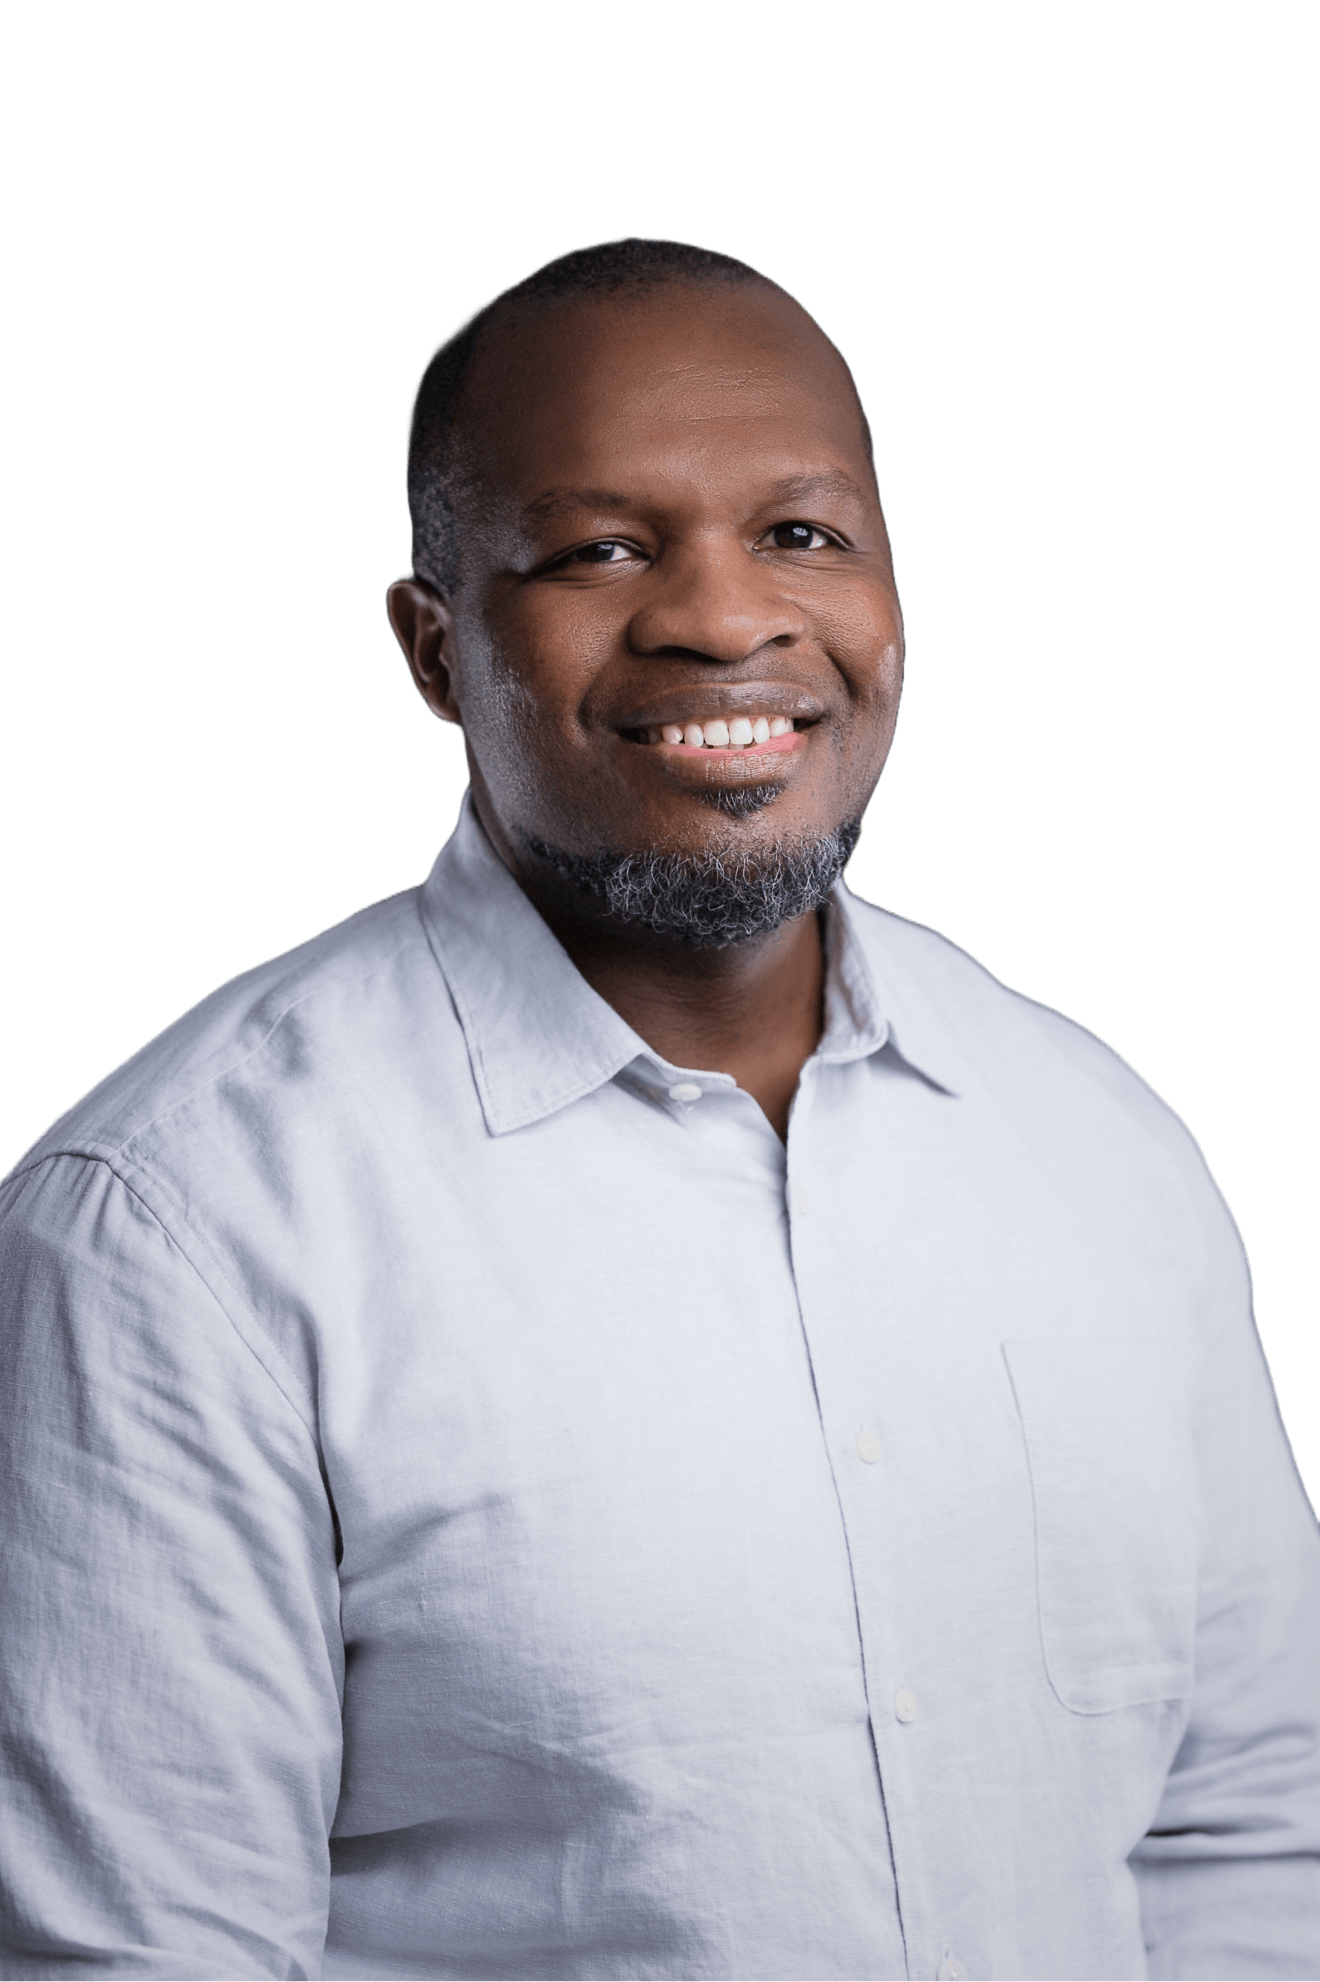
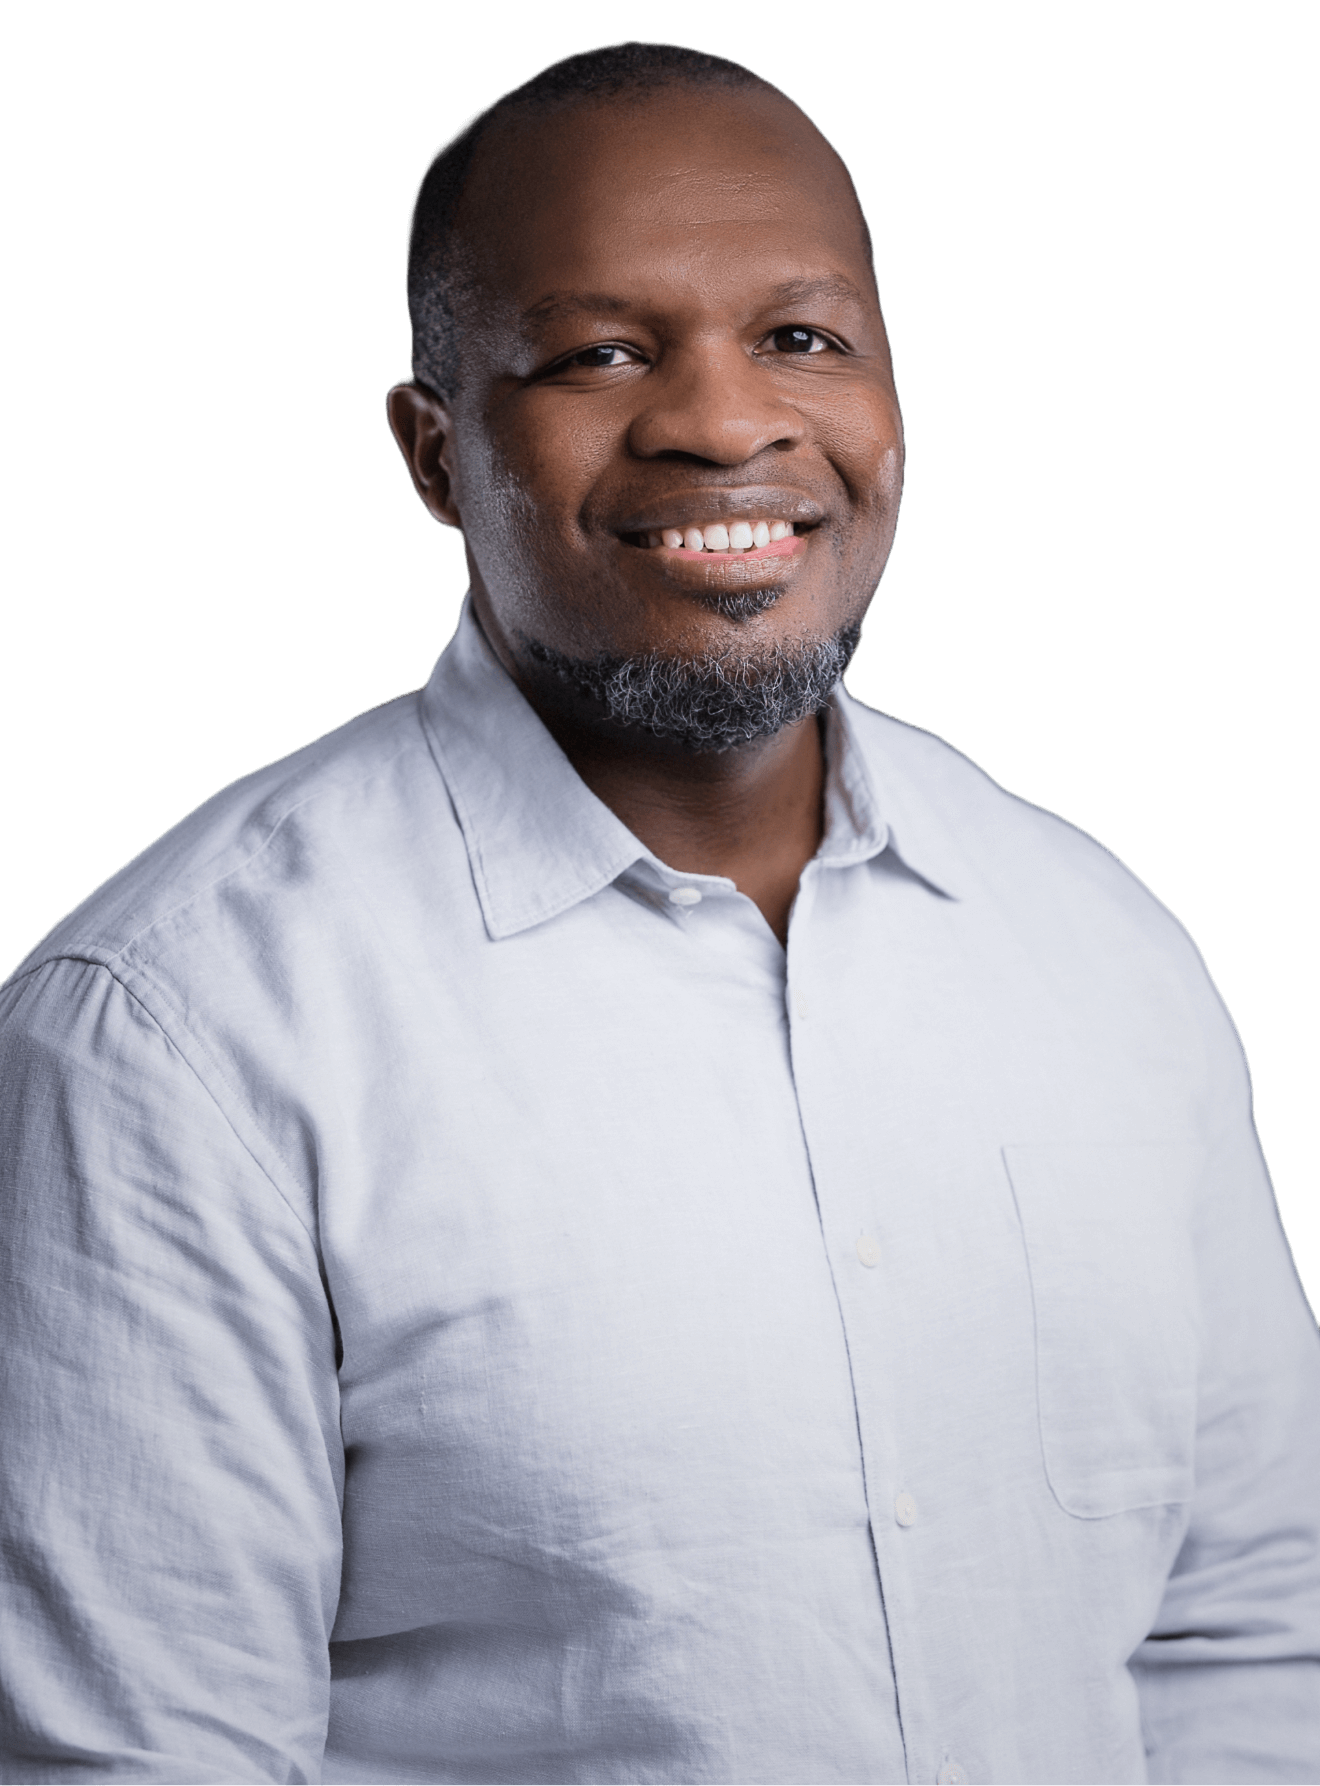
About component: Small cosmetic fixes

diff --git a/src/components/About/About.scss b/src/components/About/About.scss
@@ -1,13 +1,14 @@
 :root { 
   --appname-about-container-display: block;
+  --appname-about-container-padd-top: var(--appname-spacing-section-h-small);
   --appname-about-container-padd-bott: 0;
   --appname-about-img-position: absolute;
   --appname-about-img-left: 0;
   --appname-about-img-width: 100%;
-  --appname-about-img-height: 200px;
-  --appname-about-container-padd: 200px;
+  --appname-about-img-height: 250px;
+  --appname-about-container-padd: 250px;
   --appname-about-container-overflow: hidden;
-  --appname-about-img-obj-pos: 0 -20px; 
+  --appname-about-img-obj-pos: 0 0;
   --appname-about-article-display: block;
   --appname-about-article-flex-dir: column; 
   --appname-about-article-justify-cont: center;
@@ -20,6 +21,7 @@
 
 .About {
   overflow: hidden;
+  padding-top: var(--appname-about-container-padd-top);
   padding-bottom: var(--appname-about-container-padd-bott);
   background-color: var(--appname-theme-light-bbbb-0);
 
@@ -67,20 +69,18 @@
   @media (min-width: 1400px) {
     // border: 10px solid purple;
     --appname-about-container-display: flex;
-    --appname-about-img-position: static;
-
-
-
+    --appname-about-img-position: static; 
     --appname-about-article-display: flex;
     --appname-about-img-left: -90px;
     --appname-about-img-width: 600px; 
-    --appname-about-img-height: 700px;
+    --appname-about-img-height: 600px;
     --appname-about-container-padd: 0;
 
     --appname-about-article-marg: auto;
     --appname-about-article-width: 560px;
     --appname-about-container-overflow: visible;
 
+    --appname-about-container-padd-top: 40px;
     --appname-about-container-padd-bott: 0;
     --appname-about-img-bottom: unset;
     --appname-about-img-top: -140px;
@@ -99,7 +99,9 @@
     --appname-about-article-width: 560px;
     --appname-about-container-overflow: visible;
 
+    --appname-about-container-padd-top: 90px;
     --appname-about-container-padd-bott: var(--appname-spacing-section-h-small);
+    --appname-about-img-obj-pos: 0 70px;
     --appname-about-img-bottom: unset;
     --appname-about-img-top: -140px;
     --appname-about-article-padding: 15px;
@@ -117,6 +119,7 @@
     --appname-about-article-width: 460px;
     --appname-about-container-overflow: visible;
 
+    --appname-about-container-padd-top: 70px;
     --appname-about-container-padd-bott: var(--appname-spacing-section-h-small);
     --appname-about-img-bottom: -72px;
     --appname-about-article-padding: 15px;
@@ -131,12 +134,13 @@
     --appname-about-container-padd: 0;
 
     --appname-about-article-marg: auto;
-    --appname-about-article-width: 400px;
+    --appname-about-article-width: 450px;
     --appname-about-container-overflow: visible;
 
+    --appname-about-container-padd-top: 60px;
     --appname-about-container-padd-bott: var(--appname-spacing-section-h-small);
     --appname-about-img-bottom: -60px;
-    --appname-about-article-padding: 15px; 
+    --appname-about-article-padding: 25px; 
   }
 
   // Small Screen ...
@@ -144,7 +148,7 @@
     // border: 10px solid turquoise;
     --appname-about-img-height: 380px;
     --appname-about-container-padd: 380px;
-    --appname-about-img-obj-pos: 0px -60px;
+    --appname-about-img-obj-pos: 0 0;
   }
 
   // Smaller Screen ...

diff --git a/src/components/About/About.tsx b/src/components/About/About.tsx
@@ -6,7 +6,7 @@ const About = () => {
   const sectionData = usePageSection("4");
 
   return (
-    <section className="About sc-block-pd-top">
+    <section className="About">
       <div className="container"> 
         <img className="About-img img-fluid img-poster" src="images/eric-njanga-2.png" alt="" /> 
 
